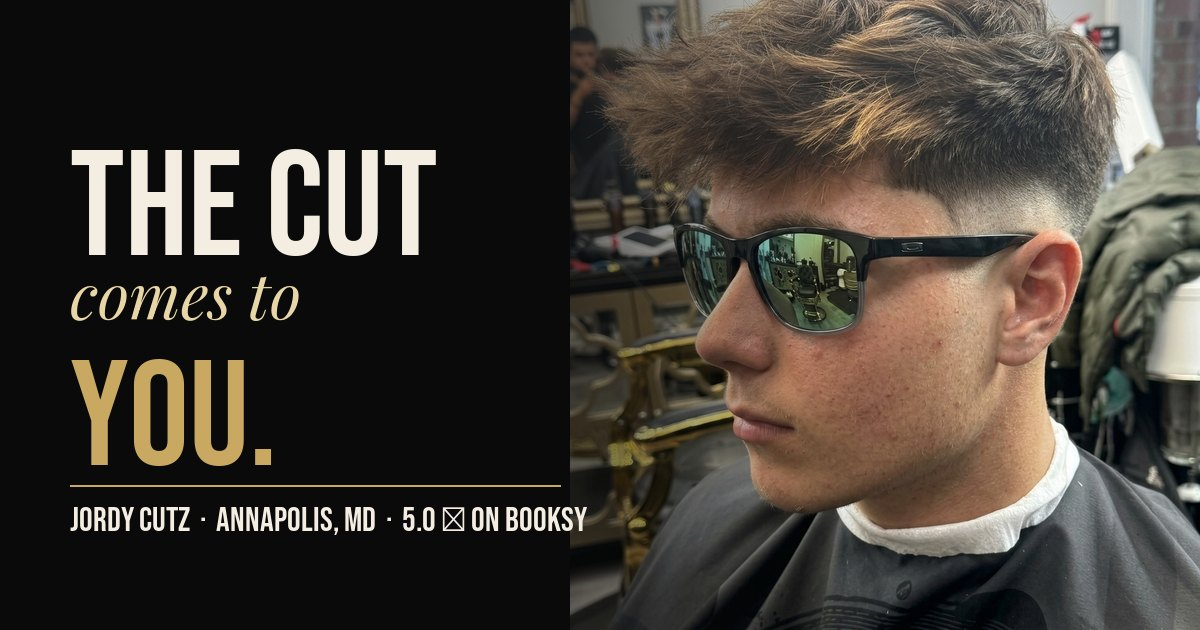
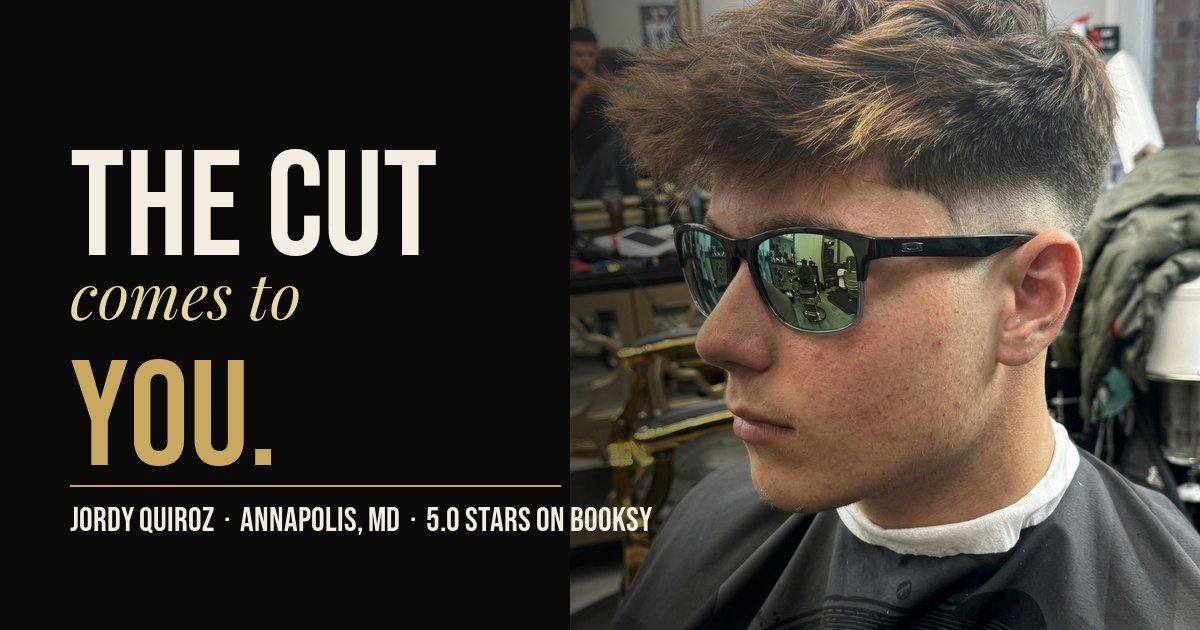
Rebrand Jordy Cutz -> Jordy Quiroz
- Wordmark, preloader, footer, 404, and page copy now read Jordy Quiroz
- Monogram redrawn JC -> JQ across the nav, preloader, 404 and favicon;
  home-screen icon and social share card regenerated
- Structured data names the business Jordy Quiroz and keeps Jordy Cutz
  and J.Barber 1 as aliases, so people and search engines who know the
  old names still connect them
- Wordmark tightened on phones: it is two letters longer and was checked
  clear of the language toggle and menu button at 360, 390 and 414px

Also fixes a bug: js/i18n.js still carried the original pre-SEO titles
and the page script wrote them into document.title on load, silently
undoing the keyword-led titles. They now match what build.py publishes.

Left as-is on purpose: the Instagram handle @jordycutzb (his real
account), verbatim reviews that mention J. Barber 1, and the Booksy
caption, which reflects what Booksy shows until he renames it there.

Changed region(s): [[0.1233, 0.7841, 0.555, 0.8444]]

diff --git a/es/index.html b/es/index.html
@@ -3,7 +3,7 @@
 <head>
   <meta charset="UTF-8">
   <meta name="viewport" content="width=device-width, initial-scale=1.0">
-  <title>Barbero a Domicilio en Annapolis, MD | Jordy Cutz</title>
+  <title>Barbero a Domicilio en Annapolis, MD | Jordy Quiroz</title>
   <meta name="description" content="Barbero de lujo a domicilio en Annapolis, MD. Fades de precisión, barba esculpida y toalla caliente en tu casa, oficina o en el estudio de Forest Drive.">
   <meta name="theme-color" content="#0a0a0b">
   <link rel="canonical" href="https://thejohncarter-ai.github.io/jordycutz-site/es/">
@@ -13,7 +13,7 @@
 
   <!-- Open Graph / Social -->
   <meta property="og:type" content="website">
-  <meta property="og:title" content="Jordy Cutz — Luxury Mobile Barber · Annapolis">
+  <meta property="og:title" content="Jordy Quiroz — Luxury Mobile Barber · Annapolis">
   <meta property="og:description" content="Precision fades, sculpted beards, custom designs. 5.0 stars on Booksy. The cut comes to you.">
   <meta property="og:image" content="https://thejohncarter-ai.github.io/jordycutz-site/assets/og.jpg">
   <meta property="og:url" content="https://thejohncarter-ai.github.io/jordycutz-site/es/">
@@ -40,8 +40,8 @@
         "HealthAndBeautyBusiness"
       ],
       "@id": "https://thejohncarter-ai.github.io/jordycutz-site/#barbershop",
-      "name": "Jordy Cutz",
-      "alternateName": "J.Barber 1",
+      "name": "Jordy Quiroz",
+      "alternateName": ["Jordy Cutz", "J.Barber 1"],
       "description": "Luxury barbering in Annapolis, Maryland. Precision fades, sculpted beards, custom designs and a hot-towel ritual — in the studio on Forest Drive or delivered to your door as a private house call.",
       "url": "https://thejohncarter-ai.github.io/jordycutz-site/es/",
       "inLanguage": "es-US",
@@ -371,7 +371,7 @@
       "@type": "WebSite",
       "@id": "https://thejohncarter-ai.github.io/jordycutz-site/#website",
       "url": "https://thejohncarter-ai.github.io/jordycutz-site/",
-      "name": "Jordy Cutz",
+      "name": "Jordy Quiroz",
       "inLanguage": [
         "en-US",
         "es-US"
@@ -446,9 +446,10 @@
       <svg viewBox="0 0 120 120" class="monogram" aria-hidden="true">
         <circle cx="60" cy="60" r="54" class="monogram__ring"/>
         <path class="monogram__letter" d="M44 34v36c0 9-5 14-13 14-6 0-10-3-12-8"/>
-        <path class="monogram__letter" d="M92 44c-3-6-9-10-16-10-11 0-19 10-19 25s8 25 19 25c7 0 13-4 16-10"/>
+        <path class="monogram__letter" d="M94 59c0 14-8 25-18 25s-18-11-18-25 8-25 18-25 18 11 18 25z"/>
+        <path class="monogram__letter" d="M81 74l14 16"/>
       </svg>
-      <div class="preloader__word">JORDY <span>CUTZ</span></div>
+      <div class="preloader__word">JORDY <span>QUIROZ</span></div>
       <div class="preloader__bar"><span></span></div>
     </div>
   </div>
@@ -463,13 +464,14 @@
 
   <!-- ===== NAV ===== -->
   <header class="nav" id="nav">
-    <a href="#top" class="nav__brand" data-cursor="link" aria-label="Jordy Cutz home">
+    <a href="#top" class="nav__brand" data-cursor="link" aria-label="Jordy Quiroz home">
       <svg viewBox="0 0 120 120" class="nav__mono" aria-hidden="true">
         <circle cx="60" cy="60" r="54"/>
         <path d="M44 34v36c0 9-5 14-13 14-6 0-10-3-12-8"/>
-        <path d="M92 44c-3-6-9-10-16-10-11 0-19 10-19 25s8 25 19 25c7 0 13-4 16-10"/>
+        <path d="M94 59c0 14-8 25-18 25s-18-11-18-25 8-25 18-25 18 11 18 25z"/>
+        <path d="M81 74l14 16"/>
       </svg>
-      <span class="nav__word">JORDY <em>CUTZ</em></span>
+      <span class="nav__word">JORDY <em>QUIROZ</em></span>
     </a>
     <nav class="nav__links" aria-label="Primary">
       <a href="#experience" data-cursor="link" data-i18n="nav.experience">Experiencia</a>
@@ -518,7 +520,7 @@
       <div class="hero__media" data-parallax="0.04">
         <picture>
           <source srcset="assets/img/work/fade-moody.webp" type="image/webp">
-          <img src="../assets/img/work/fade-moody.jpg" alt="Client with a fresh skin fade and sunglasses in the Jordy Cutz chair" width="1024" height="1024" fetchpriority="high" decoding="async">
+          <img src="../assets/img/work/fade-moody.jpg" alt="Client with a fresh skin fade and sunglasses in Jordy Quiroz's chair" width="1024" height="1024" fetchpriority="high" decoding="async">
         </picture>
       </div>
       <div class="hero__veil"></div>
@@ -632,7 +634,7 @@
 
           <aside class="ticket reveal" id="ticket">
             <div class="ticket__head">
-              <span class="ticket__brand">JC</span>
+              <span class="ticket__brand">JQ</span>
               <span data-i18n="ticket.title">Tu Sesión</span>
               <span class="ticket__no">№ <b id="ticketNo">0001</b></span>
             </div>
@@ -781,7 +783,7 @@
           <a href="https://www.google.com/maps/dir/?api=1&destination=1407+Forest+Drive+Suite+1+Annapolis+MD+21403" target="_blank" rel="noopener" class="btn btn--ghost magnetic reveal" data-cursor="link"><span data-i18n="studio.dir">Cómo llegar</span></a>
         </div>
         <div class="studio__map reveal">
-          <iframe title="Map to Jordy Cutz, 1407 Forest Drive, Annapolis" loading="lazy" referrerpolicy="no-referrer-when-downgrade" allowfullscreen
+          <iframe title="Map to Jordy Quiroz, 1407 Forest Drive, Annapolis" loading="lazy" referrerpolicy="no-referrer-when-downgrade" allowfullscreen
             src="https://www.google.com/maps?q=1407+Forest+Drive+Suite+1+Annapolis+MD+21403&output=embed"></iframe>
         </div>
       </div>
@@ -825,7 +827,7 @@
 
     <!-- ===== FINAL CTA ===== -->
     <section class="cta">
-      <div class="cta__bg" aria-hidden="true"><span>JORDY CUTZ</span></div>
+      <div class="cta__bg" aria-hidden="true"><span>QUIROZ</span></div>
       <div class="container cta__inner reveal">
         <h2 class="cta__title" data-i18n="cta.title">Fresh cut.<br><em>Nueva vibra.</em></h2>
         <a href="https://booksy.com/es-us/1071238_j-barber-1_barber-shop_22531_annapolis" target="_blank" rel="noopener" class="btn btn--gold btn--xl magnetic js-booksy" data-cursor="book"><span data-i18n="cta.bookBooksy">Reservar en Booksy</span><svg viewBox="0 0 24 24" aria-hidden="true"><path d="M5 12h14M13 6l6 6-6 6"/></svg></a>
@@ -837,7 +839,7 @@
   <footer class="footer">
     <div class="container footer__grid">
       <div class="footer__brand">
-        <span class="nav__word">JORDY <em>CUTZ</em></span>
+        <span class="nav__word">JORDY <em>QUIROZ</em></span>
         <p data-i18n="foot.tag">Barbería de lujo, a domicilio. Annapolis, Maryland.</p>
       </div>
       <div class="footer__col">
@@ -857,7 +859,7 @@
       </div>
     </div>
     <div class="container footer__bottom">
-      <span>© <span id="year"></span> Jordy Cutz · J.Barber 1. <span data-i18n="foot.rights">Todos los derechos reservados.</span></span>
+      <span>© <span id="year"></span> Jordy Quiroz. <span data-i18n="foot.rights">Todos los derechos reservados.</span></span>
       <span><span data-i18n="foot.lang">We speak English</span> · <a href="#top" data-i18n="foot.top">Volver arriba ↑</a></span>
     </div>
   </footer>

diff --git a/index.html b/index.html
@@ -3,7 +3,7 @@
 <head>
   <meta charset="UTF-8">
   <meta name="viewport" content="width=device-width, initial-scale=1.0">
-  <title>Mobile Barber Annapolis MD | Jordy Cutz — Fades &amp; Beards</title>
+  <title>Mobile Barber Annapolis MD | Jordy Quiroz — Fades &amp; Beards</title>
   <meta name="description" content="Luxury mobile barber in Annapolis, MD. Precision fades, beard sculpting and hot-towel service at your home, office or the Forest Drive studio.">
   <meta name="theme-color" content="#0a0a0b">
   <link rel="canonical" href="https://thejohncarter-ai.github.io/jordycutz-site/">
@@ -13,7 +13,7 @@
 
   <!-- Open Graph / Social -->
   <meta property="og:type" content="website">
-  <meta property="og:title" content="Jordy Cutz — Luxury Mobile Barber · Annapolis">
+  <meta property="og:title" content="Jordy Quiroz — Luxury Mobile Barber · Annapolis">
   <meta property="og:description" content="Precision fades, sculpted beards, custom designs. 5.0 stars on Booksy. The cut comes to you.">
   <meta property="og:image" content="https://thejohncarter-ai.github.io/jordycutz-site/assets/og.jpg">
   <meta property="og:url" content="https://thejohncarter-ai.github.io/jordycutz-site/">
@@ -40,8 +40,8 @@
         "HealthAndBeautyBusiness"
       ],
       "@id": "https://thejohncarter-ai.github.io/jordycutz-site/#barbershop",
-      "name": "Jordy Cutz",
-      "alternateName": "J.Barber 1",
+      "name": "Jordy Quiroz",
+      "alternateName": ["Jordy Cutz", "J.Barber 1"],
       "description": "Luxury barbering in Annapolis, Maryland. Precision fades, sculpted beards, custom designs and a hot-towel ritual — in the studio on Forest Drive or delivered to your door as a private house call.",
       "url": "https://thejohncarter-ai.github.io/jordycutz-site/",
       "image": [
@@ -370,7 +370,7 @@
       "@type": "WebSite",
       "@id": "https://thejohncarter-ai.github.io/jordycutz-site/#website",
       "url": "https://thejohncarter-ai.github.io/jordycutz-site/",
-      "name": "Jordy Cutz",
+      "name": "Jordy Quiroz",
       "inLanguage": [
         "en-US",
         "es-US"
@@ -445,9 +445,10 @@
       <svg viewBox="0 0 120 120" class="monogram" aria-hidden="true">
         <circle cx="60" cy="60" r="54" class="monogram__ring"/>
         <path class="monogram__letter" d="M44 34v36c0 9-5 14-13 14-6 0-10-3-12-8"/>
-        <path class="monogram__letter" d="M92 44c-3-6-9-10-16-10-11 0-19 10-19 25s8 25 19 25c7 0 13-4 16-10"/>
+        <path class="monogram__letter" d="M94 59c0 14-8 25-18 25s-18-11-18-25 8-25 18-25 18 11 18 25z"/>
+        <path class="monogram__letter" d="M81 74l14 16"/>
       </svg>
-      <div class="preloader__word">JORDY <span>CUTZ</span></div>
+      <div class="preloader__word">JORDY <span>QUIROZ</span></div>
       <div class="preloader__bar"><span></span></div>
     </div>
   </div>
@@ -462,13 +463,14 @@
 
   <!-- ===== NAV ===== -->
   <header class="nav" id="nav">
-    <a href="#top" class="nav__brand" data-cursor="link" aria-label="Jordy Cutz home">
+    <a href="#top" class="nav__brand" data-cursor="link" aria-label="Jordy Quiroz home">
       <svg viewBox="0 0 120 120" class="nav__mono" aria-hidden="true">
         <circle cx="60" cy="60" r="54"/>
         <path d="M44 34v36c0 9-5 14-13 14-6 0-10-3-12-8"/>
-        <path d="M92 44c-3-6-9-10-16-10-11 0-19 10-19 25s8 25 19 25c7 0 13-4 16-10"/>
+        <path d="M94 59c0 14-8 25-18 25s-18-11-18-25 8-25 18-25 18 11 18 25z"/>
+        <path d="M81 74l14 16"/>
       </svg>
-      <span class="nav__word">JORDY <em>CUTZ</em></span>
+      <span class="nav__word">JORDY <em>QUIROZ</em></span>
     </a>
     <nav class="nav__links" aria-label="Primary">
       <a href="#experience" data-cursor="link" data-i18n="nav.experience">Experience</a>
@@ -517,7 +519,7 @@
       <div class="hero__media" data-parallax="0.04">
         <picture>
           <source srcset="assets/img/work/fade-moody.webp" type="image/webp">
-          <img src="assets/img/work/fade-moody.jpg" alt="Client with a fresh skin fade and sunglasses in the Jordy Cutz chair" width="1024" height="1024" fetchpriority="high" decoding="async">
+          <img src="assets/img/work/fade-moody.jpg" alt="Client with a fresh skin fade and sunglasses in Jordy Quiroz's chair" width="1024" height="1024" fetchpriority="high" decoding="async">
         </picture>
       </div>
       <div class="hero__veil"></div>
@@ -634,7 +636,7 @@
 
           <aside class="ticket reveal" id="ticket">
             <div class="ticket__head">
-              <span class="ticket__brand">JC</span>
+              <span class="ticket__brand">JQ</span>
               <span data-i18n="ticket.title">Your Session</span>
               <span class="ticket__no">№ <b id="ticketNo">0001</b></span>
             </div>
@@ -783,7 +785,7 @@
           <a href="https://www.google.com/maps/dir/?api=1&destination=1407+Forest+Drive+Suite+1+Annapolis+MD+21403" target="_blank" rel="noopener" class="btn btn--ghost magnetic reveal" data-cursor="link"><span data-i18n="studio.dir">Get directions</span></a>
         </div>
         <div class="studio__map reveal">
-          <iframe title="Map to Jordy Cutz, 1407 Forest Drive, Annapolis" loading="lazy" referrerpolicy="no-referrer-when-downgrade" allowfullscreen
+          <iframe title="Map to Jordy Quiroz, 1407 Forest Drive, Annapolis" loading="lazy" referrerpolicy="no-referrer-when-downgrade" allowfullscreen
             src="https://www.google.com/maps?q=1407+Forest+Drive+Suite+1+Annapolis+MD+21403&output=embed"></iframe>
         </div>
       </div>
@@ -827,7 +829,7 @@
 
     <!-- ===== FINAL CTA ===== -->
     <section class="cta">
-      <div class="cta__bg" aria-hidden="true"><span>JORDY CUTZ</span></div>
+      <div class="cta__bg" aria-hidden="true"><span>QUIROZ</span></div>
       <div class="container cta__inner reveal">
         <h2 class="cta__title" data-i18n="cta.title">Fresh cut.<br><em>New vibe.</em></h2>
         <a href="https://booksy.com/en-us/1071238_j-barber-1_barber-shop_22531_annapolis" target="_blank" rel="noopener" class="btn btn--gold btn--xl magnetic js-booksy" data-cursor="book"><span data-i18n="cta.bookBooksy">Book on Booksy</span><svg viewBox="0 0 24 24" aria-hidden="true"><path d="M5 12h14M13 6l6 6-6 6"/></svg></a>
@@ -839,7 +841,7 @@
   <footer class="footer">
     <div class="container footer__grid">
       <div class="footer__brand">
-        <span class="nav__word">JORDY <em>CUTZ</em></span>
+        <span class="nav__word">JORDY <em>QUIROZ</em></span>
         <p data-i18n="foot.tag">Luxury barbering, delivered. Annapolis, Maryland.</p>
       </div>
       <div class="footer__col">
@@ -859,7 +861,7 @@
       </div>
     </div>
     <div class="container footer__bottom">
-      <span>© <span id="year"></span> Jordy Cutz · J.Barber 1. <span data-i18n="foot.rights">All rights reserved.</span></span>
+      <span>© <span id="year"></span> Jordy Quiroz. <span data-i18n="foot.rights">All rights reserved.</span></span>
       <span><span data-i18n="foot.lang">Hablamos español</span> · <a href="#top" data-i18n="foot.top">Back to top ↑</a></span>
     </div>
   </footer>

diff --git a/js/i18n.js b/js/i18n.js
@@ -1,5 +1,5 @@
 /* =====================================================================
-   JORDY CUTZ — i18n
+   JORDY QUIROZ — i18n
    English lives in index.html (captured at load). Spanish lives here.
    Keys map to data-i18n attributes. Values may contain HTML.
    ===================================================================== */
@@ -132,12 +132,12 @@ window.I18N_ES = {
   'js.houseTag': 'A domicilio',
   'js.housePrice': '$200',
   'js.houseTime': 'Precio único · cualquier servicio',
-  'js.by': 'por Jordy Cutz',
+  'js.by': 'por Jordy Quiroz',
   'js.cursorBook': 'RESERVA',
   'js.cursorDrag': 'ARRASTRA',
   'js.openPhoto': 'Abrir foto',
-  'js.title': 'Jordy Cutz — Barbero de Lujo a Domicilio · Annapolis, MD',
-  'js.desc': 'Jordy Cutz es un barbero de lujo en Annapolis, Maryland, con 5.0 estrellas y recomendado por Booksy. Fades de precisión, barbas esculpidas, diseños y ritual de toalla caliente — en el estudio o a domicilio. Reserva en Booksy.',
+  'js.title': 'Barbero a Domicilio en Annapolis, MD | Jordy Quiroz',
+  'js.desc': 'Barbero de lujo a domicilio en Annapolis, MD. Fades de precisión, barba esculpida y toalla caliente en tu casa, oficina o en el estudio de Forest Drive.',
 };
 
 // English strings used by main.js (HTML strings are captured from the DOM).
@@ -154,12 +154,12 @@ window.I18N_EN = {
   'js.houseTag': 'Mobile',
   'js.housePrice': '$200',
   'js.houseTime': 'Flat price · any services',
-  'js.by': 'by Jordy Cutz',
+  'js.by': 'by Jordy Quiroz',
   'js.cursorBook': 'BOOK',
   'js.cursorDrag': 'DRAG',
   'js.openPhoto': 'Open photo',
-  'js.title': 'Jordy Cutz — Luxury Mobile Barber · Annapolis, MD',
-  'js.desc': 'Jordy Cutz is a 5.0-rated, Booksy-recommended luxury barber in Annapolis, Maryland. Precision fades, sculpted beards, custom designs and hot-towel rituals — in the studio or delivered to your door. Book instantly on Booksy.',
+  'js.title': 'Mobile Barber Annapolis MD | Jordy Quiroz — Fades & Beards',
+  'js.desc': 'Luxury mobile barber in Annapolis, MD. Precision fades, beard sculpting and hot-towel service at your home, office or the Forest Drive studio.',
 };
 
 /* ---------- runtime ---------- */

diff --git a/404.html b/404.html
@@ -3,7 +3,7 @@
 <head>
 <meta charset="UTF-8">
 <meta name="viewport" content="width=device-width, initial-scale=1.0">
-<title>Page not found — Jordy Cutz</title>
+<title>Page not found — Jordy Quiroz</title>
 <meta name="robots" content="noindex">
 <link rel="icon" href="/jordycutz-site/assets/favicon.svg" type="image/svg+xml">
 <link href="https://fonts.googleapis.com/css2?family=Bebas+Neue&family=Playfair+Display:ital@1&family=Manrope:wght@400;600&display=swap" rel="stylesheet">
@@ -26,11 +26,12 @@
     <svg viewBox="0 0 120 120" class="mono" aria-hidden="true">
       <circle cx="60" cy="60" r="54" stroke-opacity=".5"/>
       <path d="M44 34v36c0 9-5 14-13 14-6 0-10-3-12-8"/>
-      <path d="M92 44c-3-6-9-10-16-10-11 0-19 10-19 25s8 25 19 25c7 0 13-4 16-10"/>
+      <path d="M94 59c0 14-8 25-18 25s-18-11-18-25 8-25 18-25 18 11 18 25z"/>
+      <path d="M81 74l14 16"/>
     </svg>
     <h1>Off the map.<em>Not off the chair.</em></h1>
     <p>That page does not exist — but the chair is still open, seven days a week.</p>
-    <a href="/jordycutz-site/">Back to Jordy Cutz</a>
+    <a href="/jordycutz-site/">Back to Jordy Quiroz</a>
     <small>Annapolis, MD · Hablamos español</small>
   </main>
 </body>

diff --git a/js/main.js b/js/main.js
@@ -1,5 +1,5 @@
 /* =====================================================================
-   JORDY CUTZ — main.js
+   JORDY QUIROZ — main.js
    Edit the DATA block to update services, photos, and reviews.
    Spanish copy for static HTML lives in js/i18n.js; data below carries
    its own `es` fields.
@@ -360,7 +360,7 @@ const L = (obj, field) => (I.lang === 'es' && obj.es && obj.es[field] != null) ?
   let loaded = false;
   const load = () => {
     loaded = true;
-    body.innerHTML = `<iframe title="Book with Jordy Cutz on Booksy" src="https://booksy.com/widget-2021/index.html?id=${BOOKSY_ID}&lang=${I.lang}&country=us&mode=iframe" loading="lazy" allow="payment"></iframe>`;
+    body.innerHTML = `<iframe title="Book with Jordy Quiroz on Booksy" src="https://booksy.com/widget-2021/index.html?id=${BOOKSY_ID}&lang=${I.lang}&country=us&mode=iframe" loading="lazy" allow="payment"></iframe>`;
   };
   btn.addEventListener('click', load);
   // auto-load when the booking section is near the viewport (desktop only, to save mobile data)

diff --git a/css/style.css b/css/style.css
@@ -1,5 +1,5 @@
 /* =====================================================================
-   JORDY CUTZ — Luxury Mobile Barber
+   JORDY QUIROZ — Luxury Mobile Barber
    Obsidian + champagne gold. Refined, posh, hip-hop.
    ===================================================================== */
 
@@ -665,3 +665,15 @@ h1, h2, h3, h4, p { margin: 0; }
    `pretty` has no Firefox support yet and degrades to normal, which is fine. */
 .h2, .cta__title, .hero__title { text-wrap: balance; }
 .lede, .pillar p, .feature__copy > p, .faq__list details p { text-wrap: pretty; }
+
+/* JORDY QUIROZ is two letters longer than the old wordmark. Tighten it on
+   phones so it clears the language toggle and the menu button. */
+@media (max-width: 640px) {
+  .nav__word { font-size: 1.22rem; letter-spacing: 0.15em; }
+  .nav__mono { width: 32px; height: 32px; }
+  .nav__brand { gap: 10px; }
+}
+@media (max-width: 380px) {
+  .nav__word { font-size: 1.08rem; letter-spacing: 0.12em; }
+  .nav__mono { width: 28px; height: 28px; }
+}

diff --git a/build.py b/build.py
@@ -14,10 +14,10 @@ ROOT = os.path.dirname(os.path.abspath(__file__))
 BASE = 'https://thejohncarter-ai.github.io/jordycutz-site/'
 EN_URL, ES_URL = BASE, BASE + 'es/'
 
-EN_TITLE = 'Mobile Barber Annapolis MD | Jordy Cutz — Fades &amp; Beards'
+EN_TITLE = 'Mobile Barber Annapolis MD | Jordy Quiroz — Fades &amp; Beards'
 EN_DESC  = ('Luxury mobile barber in Annapolis, MD. Precision fades, beard sculpting and '
             'hot-towel service at your home, office or the Forest Drive studio.')
-ES_TITLE = 'Barbero a Domicilio en Annapolis, MD | Jordy Cutz'
+ES_TITLE = 'Barbero a Domicilio en Annapolis, MD | Jordy Quiroz'
 ES_DESC  = ('Barbero de lujo a domicilio en Annapolis, MD. Fades de precisión, barba '
             'esculpida y toalla caliente en tu casa, oficina o en el estudio de Forest Drive.')
 

diff --git a/MARKET-RESEARCH.md b/MARKET-RESEARCH.md
@@ -71,7 +71,7 @@ Positioning line for the site and Booksy: **"Studio pricing at the studio. House
 ## 5. Quick wins beyond pricing
 
 1. **Reviews.** 40 → 100 is the single biggest lever vs. the 189-review competitor. Add a "leave a review" link in Booksy's post-appointment message.
-2. **Booksy listing name.** "J.Barber 1" doesn't match "Jordy Cutz" on Instagram or the site. Renaming the Booksy business to "Jordy Cutz" would unify search results.
+2. **Booksy listing name.** "J.Barber 1" doesn't match "Jordy Cutz" on Instagram or the site. Renaming the Booksy business to "Jordy Quiroz", the name the site and domain now use, would unify search results.
 3. **Add a House Call service to Booksy** with the price above so clients can book it directly instead of leaving a note.
 4. **Gift cards** are already enabled on Booksy — promote them on the site before the holidays.
 5. **Bilingual advantage.** Annapolis has a large Spanish-speaking client base and few competitors advertise it. It's on the site; it should be on the Booksy description too.

diff --git a/ACTION-PLAN.md b/ACTION-PLAN.md
@@ -1,4 +1,4 @@
-# Jordy Cutz — Growth Plan
+# Jordy Quiroz — Growth Plan
 
 Research date: 10 September 2026. Covers SEO, branding, PR, design, and the question of
 whether search rankings can be shortcut. Every claim below was either verified directly
@@ -151,6 +151,11 @@ that trigger removal of everything.
   story for anyone who checks.
 
 ### The name
+
+**Decided 11 September 2026: Jordy Quiroz**, with jordyquiroz.com. The site is rebranded.
+What remains is carrying the same name onto Booksy, Google, and Instagram. The analysis
+below is kept for the record.
+
 
 The brand is fragmented across three surfaces: Instagram is `@jordycutzb`, Booksy says
 "J.Barber 1", the site says "Jordy Cutz". Search engines can read inconsistent listings as

diff --git a/README.md b/README.md
@@ -1,6 +1,6 @@
-# Jordy Cutz — Luxury Mobile Barber
+# Jordy Quiroz — Luxury Mobile Barber
 
-Marketing site for **Jordy Cutz / J.Barber 1**, a 5.0-rated, Booksy-recommended barber in Annapolis, MD who also delivers the full experience as a house call.
+Marketing site for **Jordy Quiroz** (formerly branded Jordy Cutz; Booksy listing "J.Barber 1"), a 5.0-rated, Booksy-recommended barber in Annapolis, MD who also delivers the full experience as a house call.
 
 **Live site:** https://thejohncarter-ai.github.io/jordycutz-site/
 
